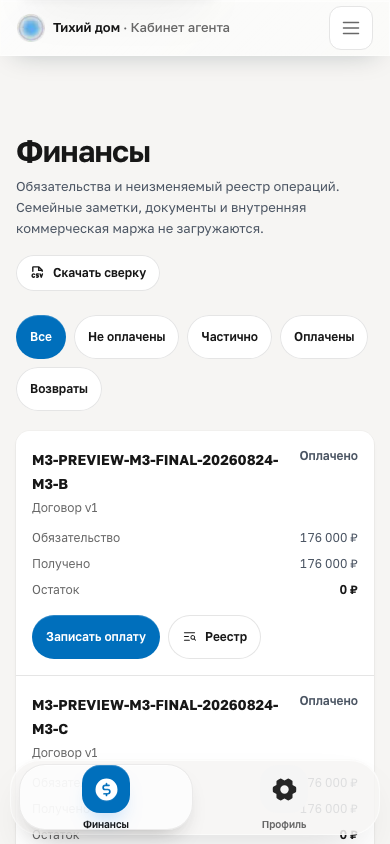
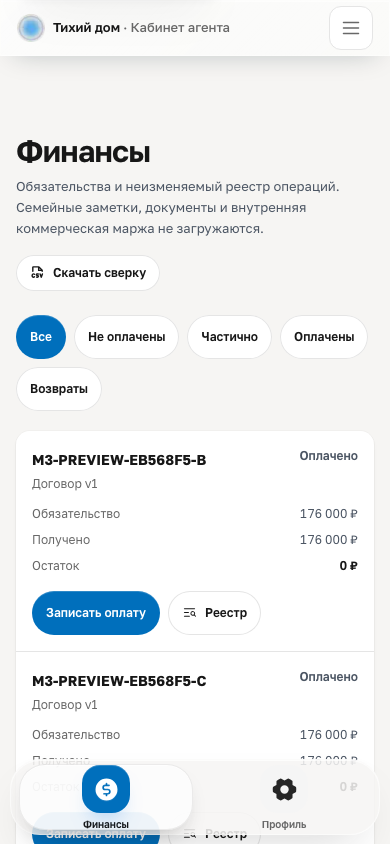
docs(m3): record final technical release evidence

diff --git a/docs/evidence/missions/M3/review.md b/docs/evidence/missions/M3/review.md
@@ -1,39 +1,59 @@
+---
+schema: m3-independent-review-v1
+reviewed_sha: eb568f54d6b47d90ed36c73738bd89c03da761c9
+reviewer: independent reviewer agent Plato (Codex)
+verdict: PASS
+p0: 0
+p1: 0
+p2: 1
+---
 # M3 independent adversarial review
 
 ## Certified scope
 
 - Base: `20b7e0fa58e6a04f1c96630f832455ec3a0f1dc4`
-- Reviewed implementation: `a917a1f10b959b80cd4e0a249a2d2281e0bba106`
-- Reviewer: independent reviewer agent Huygens
+- Reviewed implementation: `eb568f54d6b47d90ed36c73738bd89c03da761c9`
+- Reviewer: independent reviewer agent Plato (Codex)
 - Final verdict: **PASS**
 - P0: **0**
 - P1: **0**
-- P2: **0**
+- P2: **1**
 
-The reviewer read the exact diff rather than trusting the implementer summary, checked the M3
-domain/security boundaries, and independently reran focused recovery contracts, lint, typecheck,
-unit 122/122, and Production build.
+The reviewer read the exact diff, inspected all eight exact-SHA screenshots, checked the
+GitHub/Vercel binding, and independently reran focused unit, lint, typecheck, and Production
+build gates. Exact-SHA CI supplied the complete integration, concurrency, migration, restore,
+and E2E gate.
 
-## Findings closed before final review
+## Prior P1 findings closed
 
-- Signing retry could discard its idempotency key.
-- Shared document recovery could be overwritten by concurrent UI actions.
-- Execution retry reconstructed a payload from current props rather than retaining the original.
-- Generic transport/5xx copy could claim a commit that was not confirmed.
-- Non-retryable 4xx could leave a recovery lock active.
+- Login throttling is persistent, atomic, and enforced by IP and normalized account.
+- `PlatformAuditEvent` has database-enforced append-only history.
+- Contract signing and signing-policy activation use the same organization lock, with an
+  in-transaction policy recheck.
+- Consent changes preserve encrypted before/after source and timestamps in immutable audit.
+- Evidence validation binds this review artifact to exact SHA, reviewer, verdict, and counts.
 
-The certified source fixes these by retaining exact command envelopes, distinguishing confirmed
-from unconfirmed recovery truth, using synchronous single-flight document mutation guards,
-replaying the stored path/body/key directly, and clearing stale recovery on non-retryable errors.
+## Open P2
+
+Expired persistent login rate-limit identities are not reclaimed automatically. This does not
+bypass authentication or rate limits, and the `resetAt` index supports bounded cleanup, but
+attacker-selected valid email identities can cause long-term table growth.
+
+- Owner: Platform Operations
+- Reason deferred: retention and cleanup must be explicit and observable; adding an unreviewed
+  deletion policy during the final evidence-only step would change runtime behavior and require
+  another full candidate cycle.
+- Target date: 2026-09-15, before any M3 Production release authorization, whichever is earlier.
 
 ## Final verification
 
-- No weakened assertion or skipped test.
-- Integration suite remains one normal `node --test` invocation with default concurrency.
-- No timeout increase.
-- No schema, migration, auth hash, security, or workflow change in the final recovery repair.
-- No production behavior change outside the M3 command-recovery boundary.
-- No tracked file modified by the reviewer.
+- Unit: 125/125 PASS.
+- Integration: 59/59 PASS under normal file concurrency.
+- Targeted concurrency/policy repeat: 5 x 12/12 PASS.
+- Migration: one additive M3 migration; historical migrations unchanged.
+- Exact Preview: `dpl_CDP554WNjhyMX7zABzL1ZHUB3odY` at reviewed SHA, protected by Vercel SSO.
+- Finance top and dock screenshots jointly prove complete heading and final-record clearance.
+- No weakened assertion, timeout increase, suite serialization, or hidden test exclusion found.
 
-Human Finance, Legal/Privacy, and Ritual SME verdicts are deliberately outside this technical
-review and remain pending.
+Finance, Legal/Privacy, and Ritual SME verdicts remain pending human judgments and are outside
+this technical review.

diff --git a/docs/evidence/missions/M3/privacy.md b/docs/evidence/missions/M3/privacy.md
@@ -1,10 +1,23 @@
+---
+schema: m3-human-packet-v2
+gate: legalPrivacy
+preview_url: https://td-agent-3ulmmuenk-rics-projects-9baa2793.vercel.app
+deployment_id: dpl_CDP554WNjhyMX7zABzL1ZHUB3odY
+deployment_sha: eb568f54d6b47d90ed36c73738bd89c03da761c9
+implementation_sha: eb568f54d6b47d90ed36c73738bd89c03da761c9
+database_fingerprint: 545a187f9e9d66b0
+current_verdict: AWAITING_HUMAN_VERDICT
+reviewer_id: null
+reviewer_name: null
+attestation_fingerprint: null
+---
 # Legal and Privacy human decision packet
 
 ## Candidate facts
 
-- Exact Preview: `https://td-agent-1plelby0t-rics-projects-9baa2793.vercel.app`
-- Deployment: `dpl_Dzj7KprKCNASbVN1xPBpfPoraD8f`
-- Implementation: `a917a1f10b959b80cd4e0a249a2d2281e0bba106`
+- Exact Preview: `https://td-agent-3ulmmuenk-rics-projects-9baa2793.vercel.app`
+- Deployment: `dpl_CDP554WNjhyMX7zABzL1ZHUB3odY`
+- Implementation: `eb568f54d6b47d90ed36c73738bd89c03da761c9`
 - Case-party contacts use the existing encrypted adapter and stable role assignments.
 - Document storage is private, server-authorized, audited, and short lived; permanent URLs are absent.
 - Upload is quarantined and is never represented as verified.
@@ -16,12 +29,14 @@
 
 The Legal/Privacy reviewer must decide:
 
-1. Legal basis and consent provenance for each Case-party role and communication channel.
-2. Retention, export, rectification, and deletion restrictions for parties, document versions, access audit, contract versions, and ledger history.
-3. Whether the ContractVersion/signing evidence boundary may support the intended pilot and what wording is required.
-4. Which roles may view each document type, family-role field, payer field, and access event.
-5. Whether rejection reasons, filenames, and audit metadata are sufficiently minimized.
-6. Whether the fail-closed ban on religion/special-category processing is correct for this release.
+- [ ] legal-basis-consent: Approve legal basis and consent provenance for each party role and channel.
+- [ ] retention-rights: Define retention, export, rectification, and deletion restrictions.
+- [ ] signing-boundary: Approve ContractVersion signing-evidence boundary and required wording.
+- [ ] access-visibility: Approve role access to document, party, payer, and audit fields.
+- [ ] metadata-minimization: Confirm filenames, rejection reasons, and audit metadata are minimized.
+- [ ] special-category: Confirm fail-closed exclusion of religion and special-category processing.
+- [ ] scenario-cremation: Complete the synthetic cremation privacy and signing journey in this Preview.
+- [ ] scenario-family-plot-burial: Complete the synthetic family-plot burial privacy and signing journey in this Preview.
 
 ## Required attestation
 

diff --git a/docs/evidence/missions/M3/finance.md b/docs/evidence/missions/M3/finance.md
@@ -1,10 +1,23 @@
+---
+schema: m3-human-packet-v2
+gate: financeAccounting
+preview_url: https://td-agent-3ulmmuenk-rics-projects-9baa2793.vercel.app
+deployment_id: dpl_CDP554WNjhyMX7zABzL1ZHUB3odY
+deployment_sha: eb568f54d6b47d90ed36c73738bd89c03da761c9
+implementation_sha: eb568f54d6b47d90ed36c73738bd89c03da761c9
+database_fingerprint: 545a187f9e9d66b0
+current_verdict: AWAITING_HUMAN_VERDICT
+reviewer_id: null
+reviewer_name: null
+attestation_fingerprint: null
+---
 # Finance/accounting human decision packet
 
 ## Candidate facts
 
-- Exact Preview: `https://td-agent-1plelby0t-rics-projects-9baa2793.vercel.app`
-- Deployment: `dpl_Dzj7KprKCNASbVN1xPBpfPoraD8f`
-- Implementation: `a917a1f10b959b80cd4e0a249a2d2281e0bba106`
+- Exact Preview: `https://td-agent-3ulmmuenk-rics-projects-9baa2793.vercel.app`
+- Deployment: `dpl_CDP554WNjhyMX7zABzL1ZHUB3odY`
+- Implementation: `eb568f54d6b47d90ed36c73738bd89c03da761c9`
 - Data is synthetic and isolated from Production.
 - Ledger is append-only; corrections and reversals preserve the original entry.
 - Payment status is derived from obligation and ledger, never manually set.
@@ -17,12 +30,14 @@
 
 The Finance/accounting reviewer must exercise both synthetic scenarios and decide:
 
-1. Are `OBLIGATION`, `PAYMENT`, `REFUND`, `CORRECTION`, and `REVERSAL` sufficient and correctly interpreted?
-2. What evidence is mandatory for manual payment and the approved pilot fallback?
-3. What threshold and policy version require two-person approval?
-4. Are overpayment, partial refund, full refund, correction, reversal, and balance formulas acceptable?
-5. Which fields may appear in a safe finance export?
-6. Do reconciliation rules and exception ownership match accounting practice?
+- [ ] entry-policy: Confirm `OBLIGATION`, `PAYMENT`, `REFUND`, `CORRECTION`, and `REVERSAL` meanings.
+- [ ] manual-evidence: Define mandatory evidence for manual payment and pilot fallback.
+- [ ] four-eyes-threshold: Approve threshold and policy version for two-person approval.
+- [ ] accounting-formulas: Confirm balance, overpayment, refund, correction, and reversal formulas.
+- [ ] export-scope: Approve fields allowed in a purpose-limited finance export.
+- [ ] reconciliation: Confirm reconciliation rules, exception ownership, and escalation.
+- [ ] scenario-cremation: Complete the synthetic cremation finance journey in this Preview.
+- [ ] scenario-family-plot-burial: Complete the synthetic family-plot burial finance journey in this Preview.
 
 ## Required attestation
 

diff --git a/docs/evidence/missions/M3/ritual-rules.md b/docs/evidence/missions/M3/ritual-rules.md
@@ -1,10 +1,23 @@
+---
+schema: m3-human-packet-v2
+gate: ritualOperationsSme
+preview_url: https://td-agent-3ulmmuenk-rics-projects-9baa2793.vercel.app
+deployment_id: dpl_CDP554WNjhyMX7zABzL1ZHUB3odY
+deployment_sha: eb568f54d6b47d90ed36c73738bd89c03da761c9
+implementation_sha: eb568f54d6b47d90ed36c73738bd89c03da761c9
+database_fingerprint: 545a187f9e9d66b0
+current_verdict: AWAITING_HUMAN_VERDICT
+reviewer_id: null
+reviewer_name: null
+attestation_fingerprint: null
+---
 # Ritual-operations SME decision packet
 
 ## Candidate facts
 
-- Exact Preview: `https://td-agent-1plelby0t-rics-projects-9baa2793.vercel.app`
-- Deployment: `dpl_Dzj7KprKCNASbVN1xPBpfPoraD8f`
-- Implementation: `a917a1f10b959b80cd4e0a249a2d2281e0bba106`
+- Exact Preview: `https://td-agent-3ulmmuenk-rics-projects-9baa2793.vercel.app`
+- Deployment: `dpl_CDP554WNjhyMX7zABzL1ZHUB3odY`
+- Implementation: `eb568f54d6b47d90ed36c73738bd89c03da761c9`
 - Preview policies and records are explicitly synthetic, not legal or ritual verdicts.
 - Cremation and burial in a family plot have different versioned requirement sets.
 - Unapproved policy fails closed and cannot open a Case stage.
@@ -14,12 +27,14 @@
 
 The Ritual-operations SME must complete both scenarios and decide:
 
-1. Is every cremation requirement correct, and is any requirement missing or conditional?
-2. Is every family-plot burial requirement correct, and is any requirement missing or conditional?
-3. Are accepted document types and reviewer checklist fields operationally correct?
-4. Which requirements block each Case stage?
-5. Who owns each requirement and what due/deadline rule is correct?
-6. Are rejection, replacement, expiry, escalation, and next-action flows usable in real operations?
+- [ ] cremation-requirements: Confirm every required and conditional cremation requirement.
+- [ ] family-plot-requirements: Confirm every required and conditional family-plot requirement.
+- [ ] accepted-document-types: Approve accepted document types and reviewer checklist fields.
+- [ ] stage-blockers: Approve the exact Case stages blocked by each requirement.
+- [ ] ownership-due-rules: Approve owner, due-date, deadline, and escalation rules.
+- [ ] rejection-replacement-flow: Confirm rejection, replacement, expiry, and next-action usability.
+- [ ] scenario-cremation: Complete the full synthetic cremation journey in this Preview.
+- [ ] scenario-family-plot-burial: Complete the full synthetic family-plot burial journey in this Preview.
 
 ## Required attestation
 

diff --git a/docs/evidence/missions/M3/release.md b/docs/evidence/missions/M3/release.md
@@ -5,7 +5,7 @@
 `BLOCKED_HUMAN_JUDGMENT`
 
 All safely executable technical work is complete on implementation SHA
-`a917a1f10b959b80cd4e0a249a2d2281e0bba106`. Deterministic gates, exact-SHA isolated Preview
+`eb568f54d6b47d90ed36c73738bd89c03da761c9`. Deterministic gates, exact-SHA isolated Preview
 UAT, migration/restore/no-op/parity, reconciliation, accessibility/mobile, evidence validation,
 and independent review pass with skipped=0, NOT_RUN=0, P0=0, and P1=0.
 
@@ -22,9 +22,10 @@ result is substituted for a human decision.
 ## Release controls
 
 - Product PR: `https://github.com/gorgerich/TD_agent/pull/32`
-- Exact Preview: `https://td-agent-1plelby0t-rics-projects-9baa2793.vercel.app`
-- Preview deployment: `dpl_Dzj7KprKCNASbVN1xPBpfPoraD8f`
-- Preview DB: isolated fingerprint `646addef2eb61519`
+- Source CI: `https://github.com/gorgerich/TD_agent/actions/runs/33529964574`
+- Exact Preview: `https://td-agent-3ulmmuenk-rics-projects-9baa2793.vercel.app`
+- Preview deployment: `dpl_CDP554WNjhyMX7zABzL1ZHUB3odY`
+- Preview DB: isolated fingerprint `545a187f9e9d66b0`
 - Preview storage: private `store_Ov8erHstuvfJ52Og`
 - Production writes: **NONE**
 - Production DB/schema changes: **NONE**
@@ -33,7 +34,7 @@ result is substituted for a human decision.
 - Production release authorization: **NOT GRANTED**
 - Product PR merge: **NOT PERFORMED**
 
-Final read-only verification on 2026-08-25 re-confirmed Production fingerprint
+Final read-only verification re-confirmed Production fingerprint
 `0257665af2dd90a4`, `transaction_read_only=on`, zero M3 tables from the guarded set, and no
 applied M3 migration record. Production deployment remained
 `dpl_AkdiVtTqDjsvnX4nS3k4yKbez61g` READY.
@@ -46,3 +47,7 @@ rejects a policy, return the exact rule or accounting/privacy decision to rework
 fail-closed defaults.
 
 `RISK-W1-TECH-HUMAN-REVIEW` remains OPEN. M4 has not started.
+
+Technical P2 `M3-P2-RATE-LIMIT-RETENTION` tracks bounded reclamation of expired persistent
+login-rate-limit identities. Platform Operations owns it for 2026-09-15 or before M3 Production
+release. It does not weaken authentication, throttling, tenant isolation, or current mission gates.

diff --git a/docs/evidence/missions/M3/security.md b/docs/evidence/missions/M3/security.md
@@ -11,6 +11,10 @@
   omit ledger, family notes, and commercial economics; Finance responses omit document content
   and unrelated family notes.
 - Finance mutation login requires the existing MFA boundary.
+- Human policy approval cannot be asserted by an application operator alone: authority
+  grants require a fresh SUPER_ADMIN session with current TOTP verification, atomic
+  persistent throttling, and one-time consumption. Each reviewer key is registered for
+  one fixed role, auditable, and permanently revocable.
 
 ## Document boundary
 
@@ -38,12 +42,17 @@
   state unconfirmed. Retry sends that exact envelope.
 - Non-retryable 4xx responses clear recovery and unlock editing.
 - Document mutations are single-flight so one command cannot replace another command's recovery.
+- Human attestation files are bound to exact implementation, deployment, isolated database,
+  reviewed policy fingerprint, role-specific trusted key, and canonical Ed25519 signature.
 - Actor, timestamp, before/after, correlation, idempotency, and target are recorded for business
   mutations. Passwords, tokens, provider secrets, raw payloads, permanent file URLs, and document
   contents are excluded.
 
 ## Review result
 
-Independent review of exact source SHA `a917a1f10b959b80cd4e0a249a2d2281e0bba106`
-reported P0=0, P1=0, P2=0. Exact Preview negative tests reported cross-tenant access=0,
-unexpected 5xx=0, document reconciliation=0, and payment reconciliation=0.
+Independent review of exact source SHA `eb568f54d6b47d90ed36c73738bd89c03da761c9`
+reported P0=0, P1=0, P2=1. The open P2 is bounded retention cleanup for expired persistent
+login-rate-limit identities; it does not bypass authentication or throttling and is owned by
+Platform Operations for completion by 2026-09-15 or before M3 Production release. Exact Preview
+negative tests reported cross-tenant access=0, unexpected 5xx=0, document reconciliation=0,
+and payment reconciliation=0.

diff --git a/docs/evidence/missions/M3/ux-uat.md b/docs/evidence/missions/M3/ux-uat.md
@@ -2,13 +2,14 @@
 
 ## Environment
 
-- Deployment: `dpl_Dzj7KprKCNASbVN1xPBpfPoraD8f`
-- SHA: `a917a1f10b959b80cd4e0a249a2d2281e0bba106`
-- URL: `https://td-agent-1plelby0t-rics-projects-9baa2793.vercel.app`
-- Database fingerprint: `646addef2eb61519`
+- Deployment: `dpl_CDP554WNjhyMX7zABzL1ZHUB3odY`
+- SHA: `eb568f54d6b47d90ed36c73738bd89c03da761c9`
+- URL: `https://td-agent-3ulmmuenk-rics-projects-9baa2793.vercel.app`
+- Database fingerprint: `545a187f9e9d66b0`
 - Production fingerprint excluded: `0257665af2dd90a4`
 - Private storage: `store_Ov8erHstuvfJ52Og`
-- Data: 2 synthetic organizations, 6 synthetic role identities, 2 synthetic Cases.
+- Data: retained isolated UAT run `preview-eb568f5`: 2 synthetic organizations,
+  6 synthetic role identities, and 2 synthetic Cases.
 - Vercel Deployment Protection remained enabled; authenticated automation bypass was used only
   for this protected Preview.
 
@@ -55,6 +56,8 @@ Result: **PASS**.
 - Document root horizontal overflow: 0.
 - Primary actions remain reachable; the fixed mobile navigation is offset by content padding and
   does not hide the final actionable row.
+- Exact element capture at the 200 percent equivalent viewport proves owner and due-date metadata
+  wrap into visible rows without clipping.
 
 ## Anti-slop and UI quality re-check
 
@@ -80,6 +83,7 @@ The entire applicable AGENTS anti-slop law was re-checked after the exact-SHA ca
 - `screenshots/case-documents-zoom200.png`
 - `screenshots/finance-desktop.png`
 - `screenshots/finance-mobile.png`
+- `screenshots/finance-mobile-dock.png`
 - `screenshots/reviewer-desktop.png`
 - `screenshots/reviewer-mobile.png`
 

diff --git a/docs/evidence/missions/M3/migration.md b/docs/evidence/missions/M3/migration.md
@@ -3,7 +3,7 @@
 ## Identity and checksum
 
 - Migration: `20260811172829_m3_fulfilment_money_trust`
[2 lines of base64/hex data omitted]
 - Historical migrations changed: **NO**
 - Prisma schema change: additive models, enums, relations, indexes, and nullable legacy links.
 
@@ -35,7 +35,12 @@ All 11 migrations applied on the isolated target. The M3 deploy step completed w
 reported no pending migration. Prisma schema parity passed. Orphans, duplicates, tenant
 mismatches, and reconciliation discrepancies were all zero.
 
-The exact Preview database fingerprint is `646addef2eb61519`, distinct from Production
+The retained isolated Preview database was reset after the final migration checksum changed,
+all 11 migrations were applied from the exact implementation SHA, repeated deploy reported no
+pending migration, and a fresh schema diff returned `No difference detected`. Only synthetic
+Preview fixtures were restored after those checks.
+
+The exact Preview database fingerprint is `545a187f9e9d66b0`, distinct from Production
 `0257665af2dd90a4`. Preview migration and UAT never used the Production connection.
 
 ## Rollback and forward-fix

diff --git a/docs/evidence/missions/M3/implementation.md b/docs/evidence/missions/M3/implementation.md
@@ -4,7 +4,7 @@
 
 Mission `M3-FULFILMENT-MONEY-TRUST` is implemented from base
 `20b7e0fa58e6a04f1c96630f832455ec3a0f1dc4`. The certified source tree is
-`a917a1f10b959b80cd4e0a249a2d2281e0bba106`.
+`eb568f54d6b47d90ed36c73738bd89c03da761c9`.
 
 Read-only baseline verification identified Production deployment
 `dpl_AkdiVtTqDjsvnX4nS3k4yKbez61g`, Production database fingerprint
@@ -71,6 +71,11 @@ for tests and no Production data, schema, environment, or deployment was changed
   responses unlock controls and discard the stale envelope.
 - Document review uses synchronous single-flight protection so concurrent UI actions
   cannot overwrite another command's recovery state.
+- Reviewer authority grants require a fresh, MFA-bound SUPER_ADMIN session and a
+  persistent atomic rate limit. Reviewer credentials are separately registered,
+  permanently revocable, and bound to role-specific Ed25519 human attestations.
+- Narrow mobile reflow keeps document owner and due-date metadata visible at the
+  200 percent equivalent viewport without hiding or truncating live content.
 
 ## Permission matrix
 
